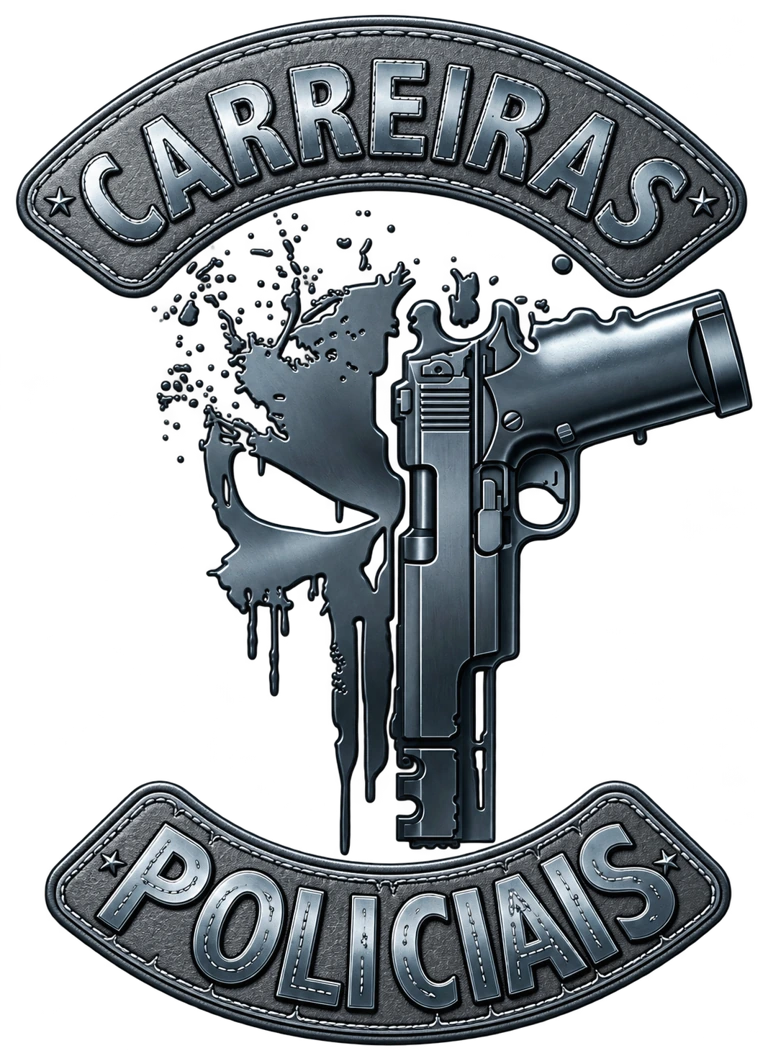
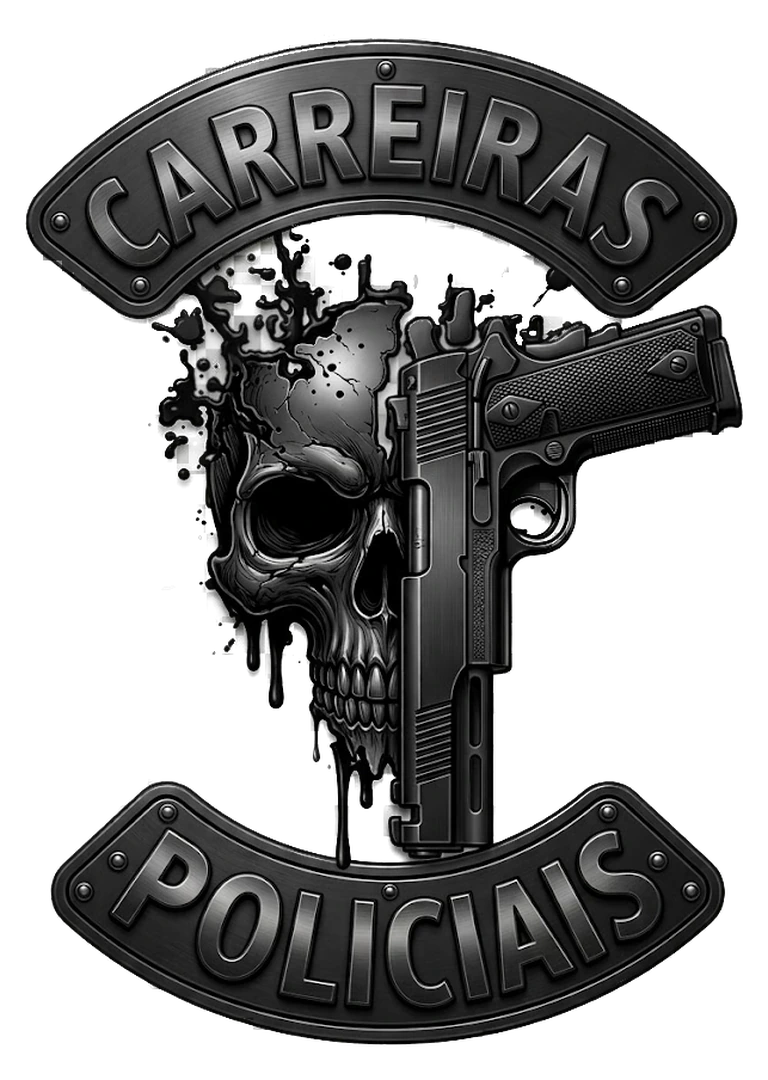
Trocar emblema de Carreiras Policiais no modo claro
Nova arte (caveira preta metálica com pistola) enviada pelo Franc, com
fundo xadrez removido de verdade (antes era só visual de transparência
"fake" renderizado em cima da imagem) e recorte/otimização em webp.
O efeito 3D do hero (tilt, camadas de espessura, brilho e sombra) é
todo orientado por CSS a partir da própria arte, então foi reaproveitado
automaticamente; só o aspect-ratio da imagem foi ajustado para a nova
proporção. O modo escuro (distintivo dourado) não foi alterado.

Claude-Session: https://claude.ai/code/session_017NSAwgTM6y4x9DgW75aK4j

diff --git a/src/styles/police-insignia.css b/src/styles/police-insignia.css
@@ -1,6 +1,6 @@
 :root {
   --police-insignia-art: url('/media/brand/carreiras-marca-claro-hd.webp');
-  --police-insignia-aspect: 768 / 1061;
+  --police-insignia-aspect: 768 / 1080;
 }
 :root.dark {
   --police-insignia-art: url('/media/brand/distintivo-carreiras-hd.webp');
